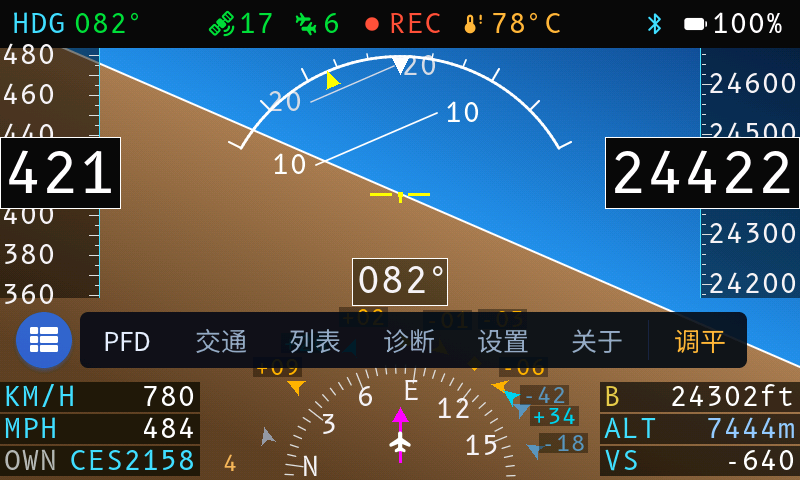
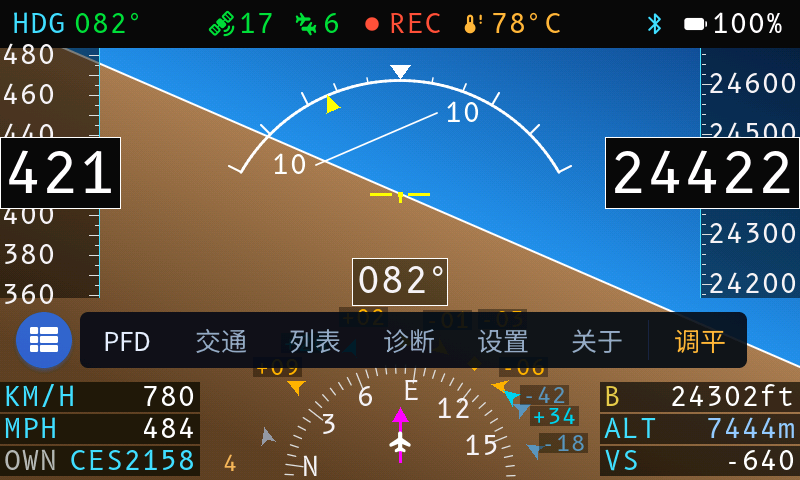
fix(pfd): 天空指针移到弧外侧——靠重排垂直空间，而非压扁三角
视觉顺序改为「白三角 → 坡度弧 → 黄 chevron」。第一版把三角压成 7 px 硬塞
进弧顶与状态栏之间仅有的 8 px 缝里，那是迁就残余空间而不是分配空间——
飞行中是扫视，读不出来的元素等于没有。改为按需求倒推整块垂直分配：

    状态栏 48 │ 空气 16 │ 白三角 14 │ 间隙 2 │ 弧顶 80
    弧心 = 80 + R(184) = 264 = PFD_CY + 70

顶部 16 px 空气是刻意留的：天空指针是 0° 坡度基准，紧贴状态栏会让人分不清
它属于顶栏还是姿态区。

同时修掉一个真 bug——圆形裁剪写成了：

    if (dy >= lim) continue;      /* 整条丢弃 */

dy 超出只意味着该 y 上没有弧（比如弧顶之上的 +20° 线），两者不可能交叠，
却被整条抹掉。这个错误还反过来误导了布局判断，让人以为弧一下移上方刻度就
会消失，从而否掉了正确的解法。改为仅在该行确有弧时收窄。

裁剪修好后，梯度线会跑到弧顶之上横穿天空指针，故上界改用弧顶而非姿态区顶：
俯仰刻度是弧「框」内的刻度。副作用是 pitch=0 时 ±20° 不显示——本就不该
显示，大仰角刻度要等姿态转过去才进入视野，这正是梯度随姿态滚动的正常行为。

一并删掉 320×240 档：4.3″ 是唯一在产面板，双档只剩维护负担。
images/ 八张截图随之重出。

Changed region(s): [[0.2812, 0.0938, 0.7188, 0.3125], [0.6875, 0.3438, 0.7188, 0.375], [0.2812, 0.3438, 0.3125, 0.375]]

diff --git a/firmware/main/pfd_layout.h b/firmware/main/pfd_layout.h
@@ -1,5 +1,5 @@
 /*
- * pfd_layout.h — PFD 各区块的布局基准，按面板分辨率分档。
+ * pfd_layout.h — 800×480 PFD 各区块的布局基准。
  *
  * 为什么需要它
  * ------------
@@ -8,32 +8,11 @@
  * 迁移到 800×480 时这些值一个都不能用 —— 高度带会落在画面中间、HSI
  * 圆心偏左、俯仰刻度挤在左上角。
  *
- * 这里把它们收拢成单一来源：两套分辨率各自给出明确基准，再派生出
- * 各模块要用的坐标。模块只引用本文件的宏，不再自己算。
- *
- * 为什么不用统一公式推导两套布局
- * ------------------------------
- * 因为两者的构图模型不同，硬套公式反而模糊：
- *
- *   320×240（现役）—— 重叠式：HSI 是个半圆，圆心压在屏幕底边之外
- *     (CY = H)，只露出上半部分，并且在 y 方向与两侧 tape 重叠
- *     （tape 到 y=168，HSI 从 y=138 起），靠 x 不冲突来共存。
- *     小屏上这是必要的妥协。
- *
- *   800×480（新屏）—— 分区式：底部 140 px 完整划给 HSI/雷达区，
- *     与 tape 在 y 上不再重叠。依据 docs/ux/box-4.3-ux-spec.md §5.1。
- *
- * 所以两套各自列明，只把真正同构的部分（水平中线、tape 左右位置、
- * HSI 圆心 x/y）做成共用派生。
+ * 这里把 4.3 寸板的坐标收拢成单一来源；模块只引用本文件的宏。
  */
 #pragma once
 
 #include "display.h"
-
-/* ══════════════════════════════════════════════════════════════
- * 分档基准
- * ══════════════════════════════════════════════════════════════ */
-#if PK_DISPLAY_W >= 800
 
 /* ---- 4.3" / 5" 800×480（分区式）---------------------------------
  * 依据 docs/ux/box-4.3-ux-spec.md §5.1：
@@ -77,7 +56,16 @@
  *
  * G1000 把坡度指示放在屏幕中间 1/3…3/5 宽度内，40% 正在其中。弧不随 roll
  * 旋转（只有 chevron 沿弧走），所以圆心偏离地平线中心不影响读数正确性。 */
-#define PFD_BANK_ARC_CY    (PFD_CY + 46)
+/* 弧心比地平线中心低 70 px —— 这个数是从**顶部的垂直分配**倒推的，不是
+ * 试出来的：
+ *
+ *     状态栏下沿 48 │ 空气 16 │ 白三角 14 │ 间隙 2 │ 弧顶 80
+ *     弧心 = 弧顶 + 半径 = 80 + 184 = 264 = PFD_CY + 70
+ *
+ * 顶部那 16 px 空气是刻意留的。天空指针是 0° 坡度的固定基准，紧贴状态栏会
+ * 让人分不清它属于顶栏还是姿态区；留出间距才读得出「它是姿态仪的一部分」。
+ * 飞行中是扫视而不是端详，这点余量决定了能否一眼认出。 */
+#define PFD_BANK_ARC_CY    (PFD_CY + 70)
 #define PFD_BANK_ARC_R     184      /* 坡度刻度弧半径                  */
 /* 俯仰 1° 对应像素（320 屏为 3）。
  *
@@ -96,29 +84,6 @@
 #define PFD_HDGBOX_W        96      /* 航向数字框                      */
 #define PFD_HDGBOX_H        48
 
-#else
-
-/* ---- 2.4" 320×240（现役，重叠式）------------------------------
- * 保持与迁移前逐像素一致，这些值是历史上手工调出来的，勿动。
- */
-#define PFD_BAR_BOT         18
-#define PFD_TAPE_W          64
-#define PFD_TAPE_TOP        18
-#define PFD_TAPE_BOT       168
-#define PFD_METRIC_TOP     170
-#define PFD_METRIC_BOT     208
-#define PFD_METRIC_X1      PFD_TAPE_W
-#define PFD_HSI_TOP        138
-#define PFD_HSI_R           65
-#define PFD_ATT_H          160
-#define PFD_BANK_ARC_CY    130
-#define PFD_BANK_ARC_R     100
-#define PFD_PIXELS_PER_DEG   3
-#define PFD_HDGBOX_W        54
-#define PFD_HDGBOX_H        18
-
-#endif
-
 /* ══════════════════════════════════════════════════════════════
  * 字号档位
  *
@@ -132,21 +97,12 @@
  *
  * 规格中"低于 2.1 mm 一律禁止"，故新屏最小档为 scale 3。
  * ══════════════════════════════════════════════════════════════ */
-#if PK_DISPLAY_W >= 800
 #define PFD_FS_BAR          3       /* 状态栏                        */
 #define PFD_BAR_TEXT_Y      9       /* 30 px cell 在 48 px 状态栏内垂直居中 */
 #define PFD_BAR_MARGIN_L   12
 #define PFD_BAR_MARGIN_R   16
 #define PFD_BAR_GAP_LABEL   8       /* 标签与其数值之间              */
 #define PFD_BAR_GAP_WORD   16       /* 独立词组之间                  */
-#else
-#define PFD_FS_BAR          2
-#define PFD_BAR_TEXT_Y      1
-#define PFD_BAR_MARGIN_L    6
-#define PFD_BAR_MARGIN_R    8
-#define PFD_BAR_GAP_LABEL   4
-#define PFD_BAR_GAP_WORD    8
-#endif
 
 /* ══════════════════════════════════════════════════════════════
  * 共用派生量（两套分辨率同构，无需分档）
@@ -157,15 +113,10 @@
 
 /* 地平线 / 姿态仪的几何中心。
  *
- * 800：取**姿态区**中心（48 + 292/2 = 194）。此前 pfd_attitude.c 里写的是
+ * 取**姿态区**中心（48 + 292/2 = 194）。此前 pfd_attitude.c 里写的是
  *      (18 + PK_DISPLAY_H)/2 = 249 —— 18 是 320 的顶栏高度，PK_DISPLAY_H 是
- *      整屏高，两个数都不属于 800，于是地平线整体下沉了 55 px。
- * 320：重叠式布局，姿态仪就是整屏背景，沿用历史值 129。 */
-#if PK_DISPLAY_W >= 800
+ *      整屏高，两个数都不属于当前布局，于是地平线整体下沉了 55 px。 */
 #define PFD_CY              (PFD_ATT_TOP + PFD_ATT_H / 2)
-#else
-#define PFD_CY              ((18 + PK_DISPLAY_H) / 2)
-#endif
 
 /* 左侧速度带 */
 #define PFD_SPD_X0          0
@@ -214,7 +165,6 @@
  * 而三行 S 档（cell 30 px）+ 行距需要 96 px。这里先按元素齐全的实际需求给
  * 值（向上占用 tape 尾段），把冲突显性化 —— 垂直空间怎么分配是阶段 4a 第二
  * 步要整体定的事，不在这里偷偷压字号糊弄过去。 */
-#if PK_DISPLAY_W >= 800
 /* 左右两块三行信息框，对称地坐在罗盘两侧。
  *
  * 罗盘是半圆、圆心在屏幕底边中点、半径 115，所以 x < 285 与 x > 515 两片
@@ -235,13 +185,4 @@
 /* 底边贴屏幕下沿，三行往上排。 */
 #define PFD_IB_TOP          (PK_DISPLAY_H - 4 \
                              - 3 * PFD_IB_ROW_H - 2 * PFD_IB_ROW_GAP)
-#else
-#define PFD_IB_ROW_H         18
-#define PFD_IB_ROW_GAP        2
-#define PFD_IB_PAD            2
-#define PFD_IB_W             64
-#define PFD_IB_LEFT_X0        0
-#define PFD_IB_RIGHT_X0     256
-#define PFD_IB_TOP          170
-#endif
 #define PFD_IB_BOT          (PFD_IB_TOP + 3 * PFD_IB_ROW_H + 2 * PFD_IB_ROW_GAP)

diff --git a/firmware/main/pfd_attitude.c b/firmware/main/pfd_attitude.c
@@ -95,14 +95,15 @@
 #  define LADDER_LBL_GAP    8
 /* 梯度线的下界是**航向框顶**，不是罗盘顶：框坐在罗盘正上方、姿态区下沿，
  * 是这一侧最先挡路的东西。画到框上只会两层叠字。 */
+#  define LADDER_TOP        (BANK_ARC_CY - BANK_ARC_R + 4)
 #  define LADDER_BOT        (PFD_HDGBOX_Y0 - 10)
 /* 坡度刻度长度 / 天空指针 / chevron 同样按物理尺寸对齐 320（×1.3），
  * 而不是按面板像素等比（×2.5）—— 后者会让这些符号在新屏上大得突兀。 */
 #  define BANK_TICK_S        5
 #  define BANK_TICK_M        8
 #  define BANK_TICK_L       13
-#  define SKYPTR_H          16
-#  define SKYPTR_HW          8
+#  define SKYPTR_H          14
+#  define SKYPTR_HW         10
 #  define CHEVRON_LEN       16
 #  define CHEVRON_HW         8
 /* 坡度弧比俯仰梯度更粗：它是姿态的**参考框架**，梯度是框架内的刻度，
@@ -230,9 +231,14 @@ static void draw_pitch_ladder(uint16_t *fb, float roll_deg, float pitch_deg)
                                       : pk_rgb565(175, 180, 190);
         int mark_y = PFD_CY + (int)((pitch_deg - (float)p) *
                                     PFD_PIXELS_PER_DEG + 0.5f);
-        /* 上界按**标签**而不是线来判：状态栏是不透明的，线越界只是被盖住，
-         * 标签越界却会露出半个字。留半个 cell 高，字完整才画。 */
-        if (mark_y - LADDER_LBL_H / 2 < PFD_ATTITUDE_TOP || mark_y > LADDER_BOT) {
+        /* 上界取**弧顶**而不是姿态区顶：俯仰梯度是坡度弧「框」内的刻度，跑到
+         * 弧上方就会横穿天空指针，读起来两层信息糊在一起。这样一来 pitch=0
+         * 时 ±20° 线不显示——本就不该显示，大仰角的刻度要等姿态转过去才该
+         * 进入视野，这正是梯度随姿态滚动的正常行为。
+         *
+         * 判定按**标签**而非线：越界的线只是被弧盖住，越界的标签却会露出半
+         * 个字。 */
+        if (mark_y - LADDER_LBL_H / 2 < LADDER_TOP || mark_y > LADDER_BOT) {
             continue;
         }
         /* 圆形裁剪：把梯度线约束在坡度弧**内侧**。
@@ -245,9 +251,17 @@ static void draw_pitch_ladder(uint16_t *fb, float roll_deg, float pitch_deg)
             const int lim = BANK_ARC_R - 8;      /* 留出弧本身的粗细 */
             int dy = mark_y - BANK_ARC_CY;
             if (dy < 0) dy = -dy;
-            if (dy >= lim) continue;
-            int max_hw = (int)sqrtf((float)(lim * lim - dy * dy));
-            if (half_w > max_hw) half_w = max_hw;
+
+            /* 只有**这一行确实有弧**时才需要收窄。
+             *
+             * 初版写的是 `if (dy >= lim) continue;`，把 dy 超出的整条丢掉——
+             * 那是错的：dy 超出意味着该 y 上压根没有弧（比如弧顶之上的
+             * +20° 线），两者不可能交叠，却被整条抹掉了。这个错误还进一步
+             * 误导了布局决策，让人以为弧不能下移，否则上方刻度就会消失。 */
+            if (dy < lim) {
+                int max_hw = (int)sqrtf((float)(lim * lim - dy * dy));
+                if (half_w > max_hw) half_w = max_hw;
+            }
         }
         int lx, ly, rx, ry;
         rotate_about_center(cs, sn, PFD_CX - half_w, mark_y, &lx, &ly);
@@ -319,9 +333,15 @@ static void draw_bank_arc(uint16_t *fb, float roll_deg)
     /* Sky pointer — fixed downward-pointing inverted white triangle
      * at the top center of the attitude region. Marks the 0° bank
      * reference; the chevron below indicates current bank against it. */
-    /* 天空指针挂在弧顶**内侧**，而不是钉在状态栏下方：弧半径变大后弧顶会
-     * 从它身上穿过去，看着像被切了一刀。贴着弧走则始终是「三角对三角」。 */
-    const int skyptr_base_y = BANK_ARC_CY - BANK_ARC_R + 2;
+    /* 天空指针放在弧的**外侧**，于是从外到内读作：白三角 → 弧 → 黄 chevron。
+     * 白三角是 0° 坡度的固定基准，黄 chevron 是当前坡度——基准在外、读数在内，
+     * 两者不会互相遮挡，扫一眼就知道偏了多少。
+     *
+     * 尺寸不迁就残余空间：弧心已按「状态栏 → 空气 → 白三角 → 弧顶」的顺序
+     * 整体下移（见 pfd_layout.h 的 PFD_BANK_ARC_CY），三角有完整的 14 px，
+     * 上方还留着 16 px 空气。硬塞进一道 8 px 的缝只会得到一个谁也看不清的
+     * 扁片——飞行中是扫视，读不出来的元素等于没有。 */
+    const int skyptr_base_y = BANK_ARC_CY - BANK_ARC_R - SKYPTR_H - 1;
     pk_pfd_draw_triangle(fb,
                          PFD_CX,             skyptr_base_y + SKYPTR_H,
                          PFD_CX - SKYPTR_HW, skyptr_base_y,
